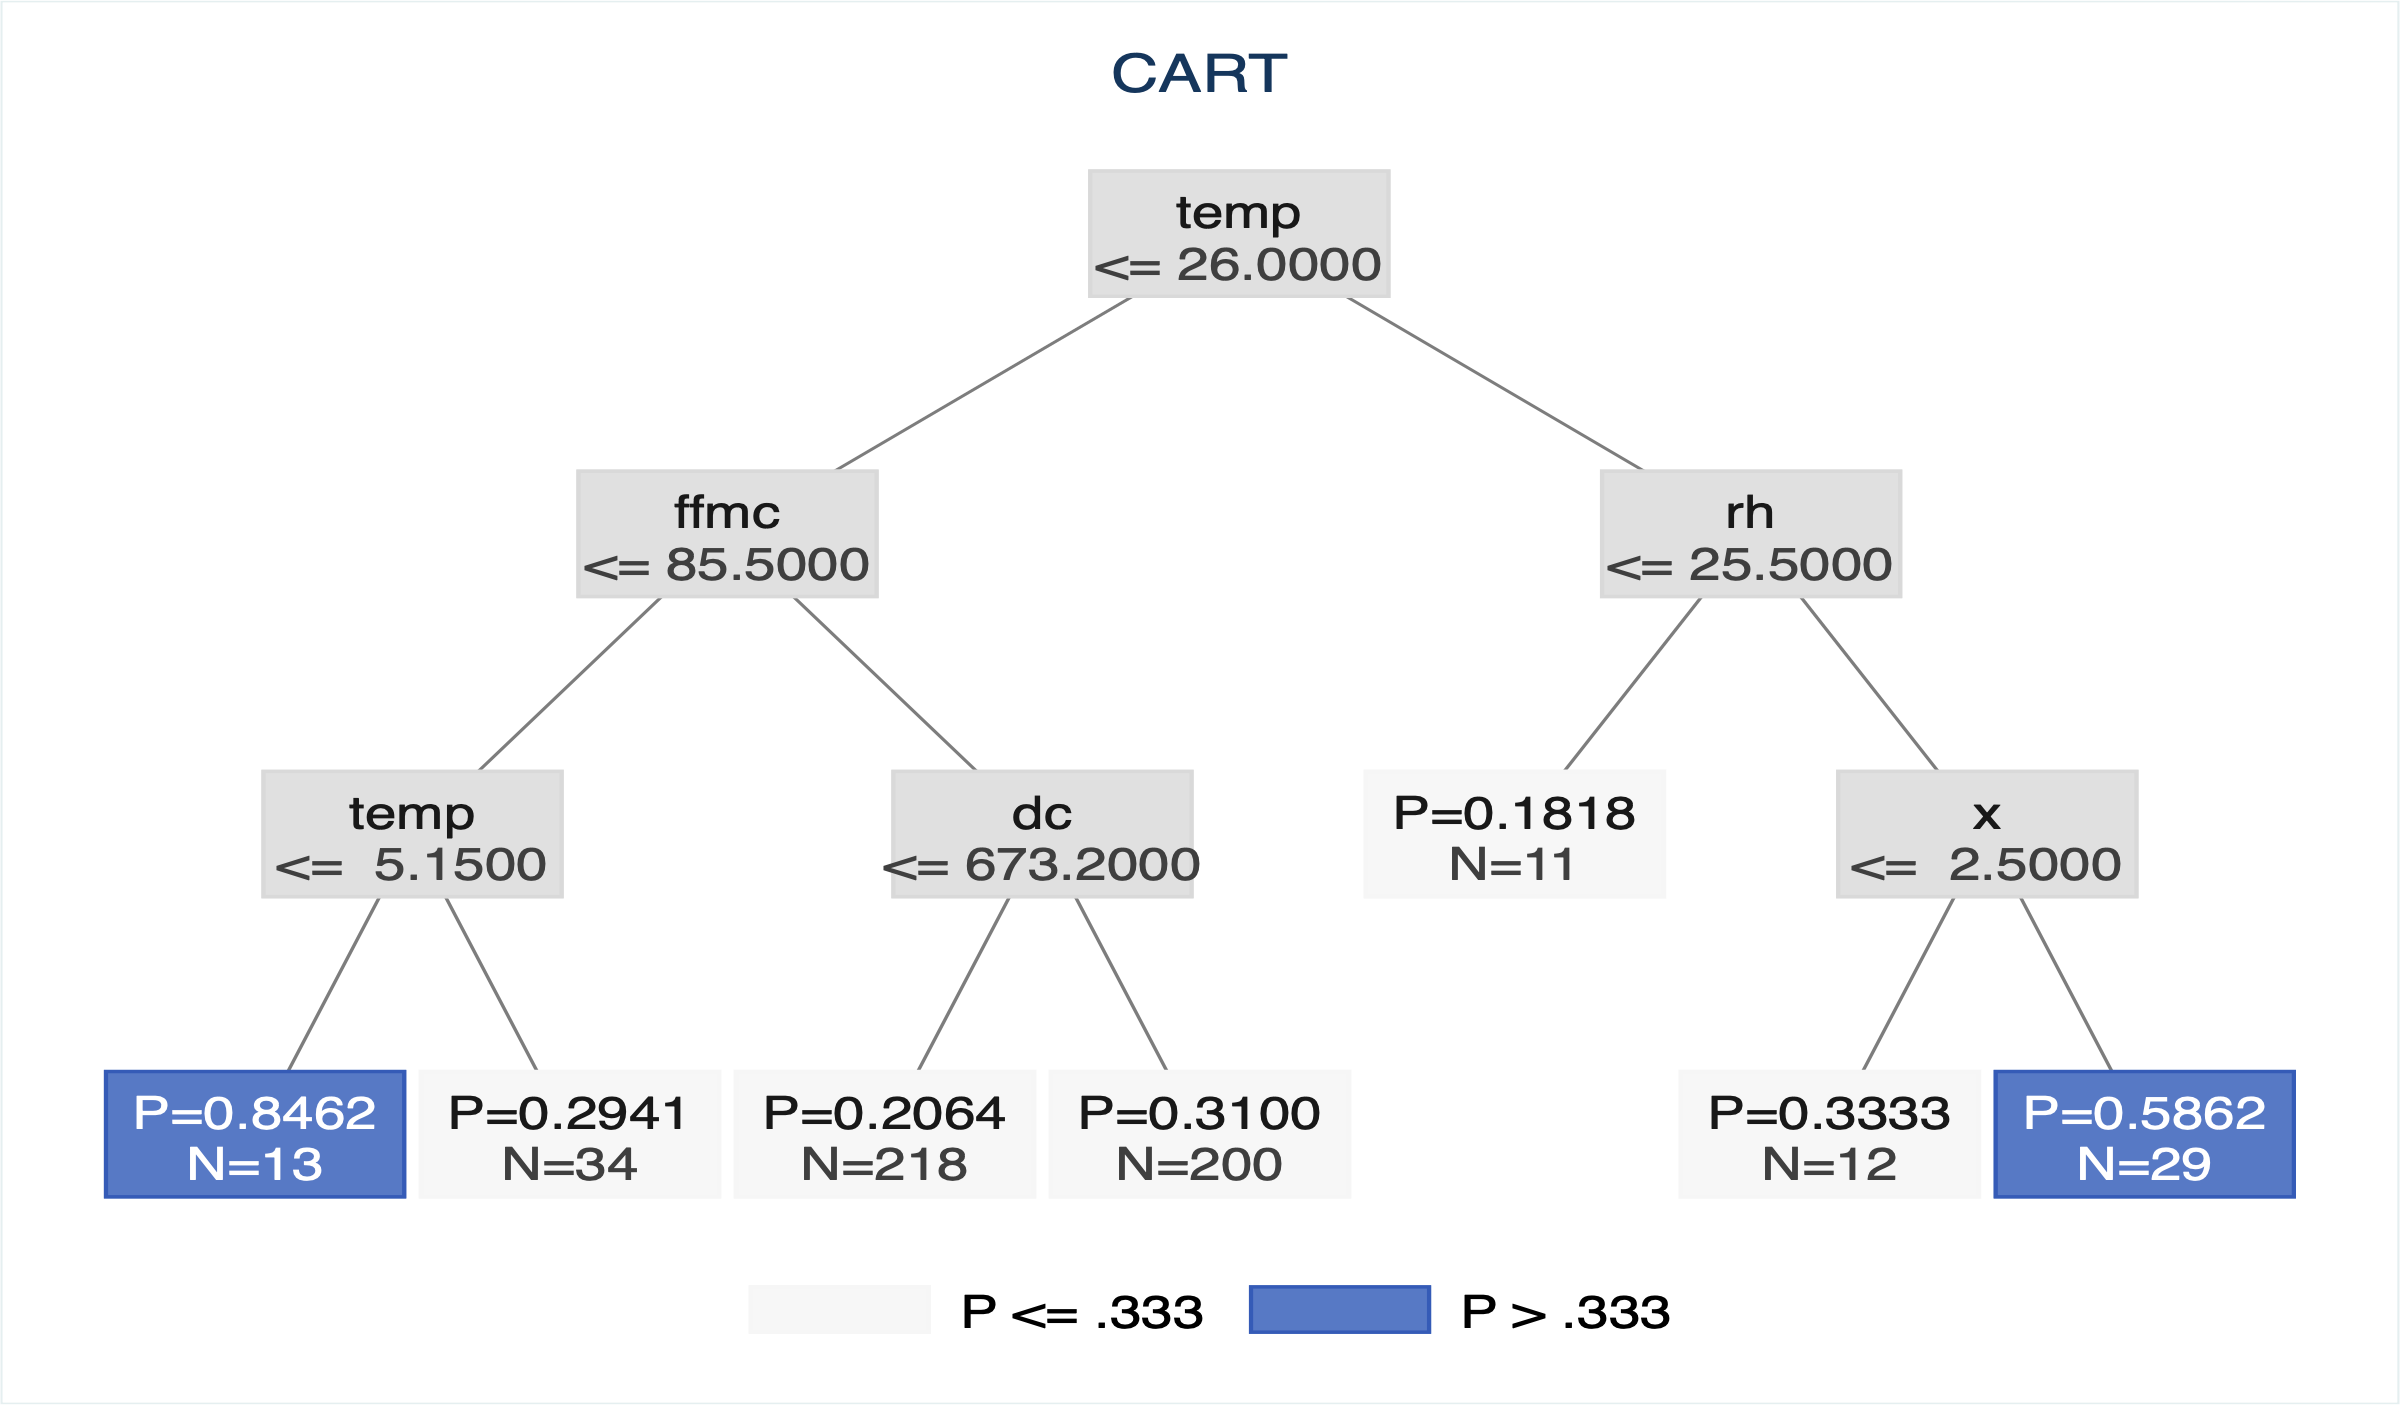
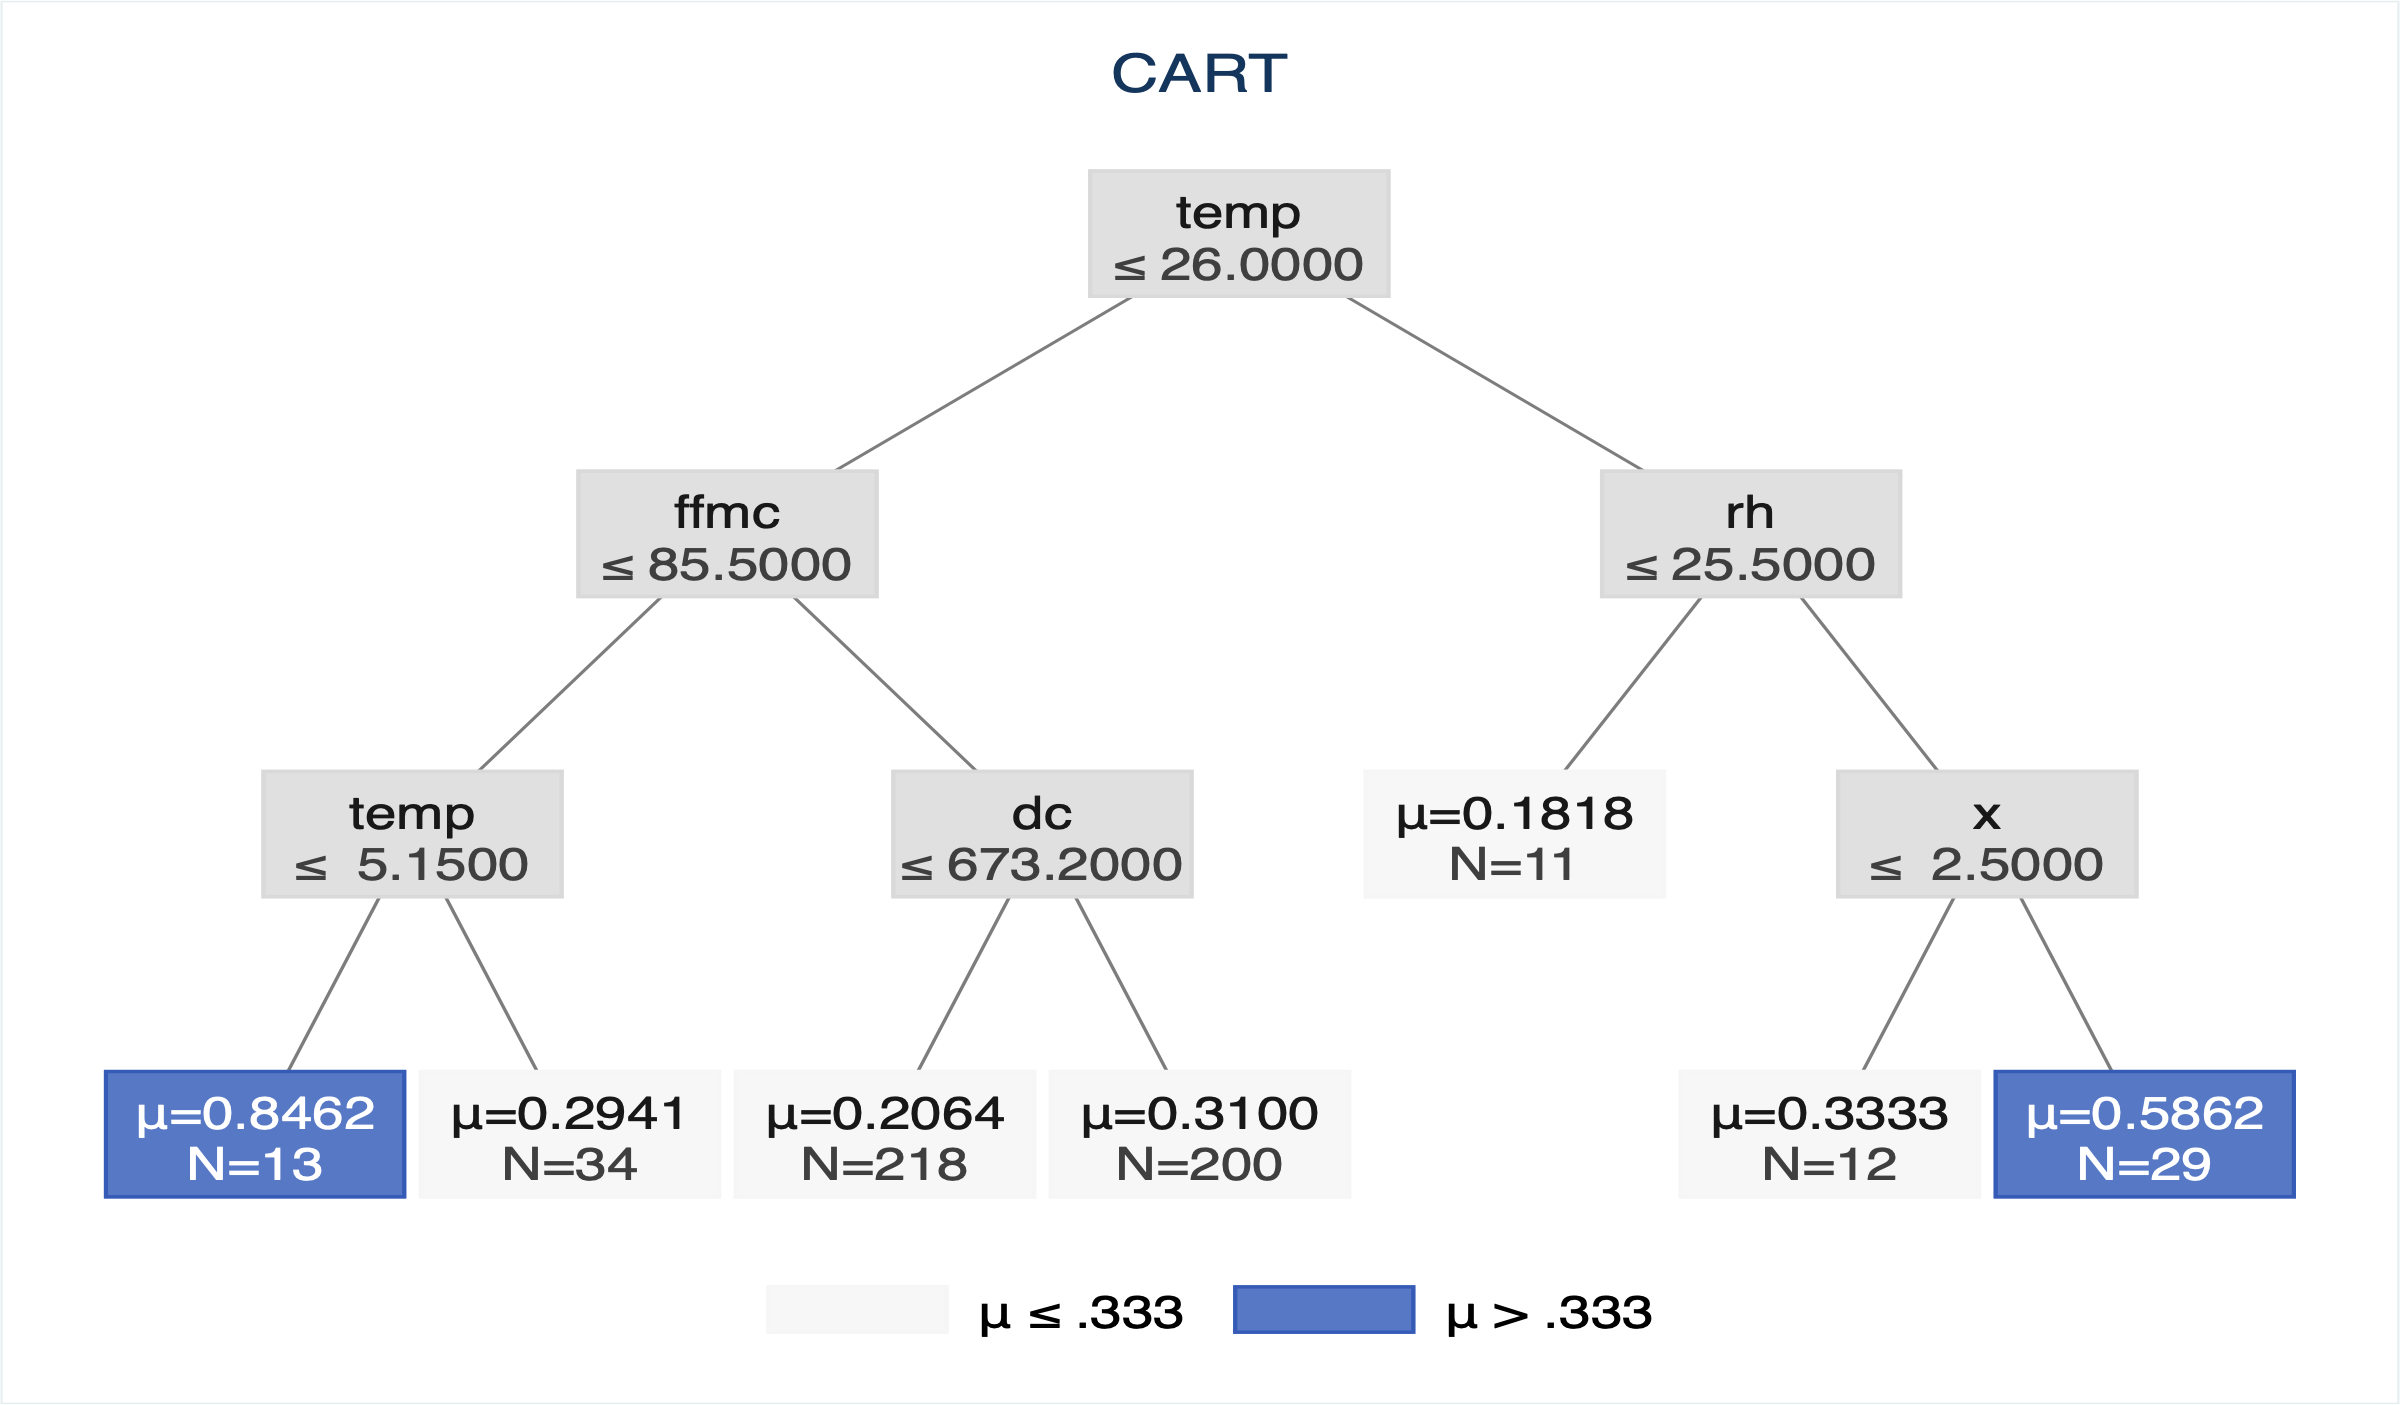
Use mathematical symbols in Stata tree labels

diff --git a/README.md b/README.md
@@ -95,7 +95,8 @@ for clear contrast. Use `font_size()` to set one uniform Stata text size for
 all node labels and the legend; the default is `medsmall`. Use
 `split_rule_lines(1)` to keep each internal-node rule on one line or
 `split_rule_lines(2)` to place the variable name and condition on separate
-lines. For example:
+lines. Numerical rules use the mathematical symbol `≤`, and terminal nodes
+report their mean as `μ`. For example:
 
 ```stata
 targetree_plot, font_size(medsmall) split_rule_lines(2) saving("tree.pdf") replace
